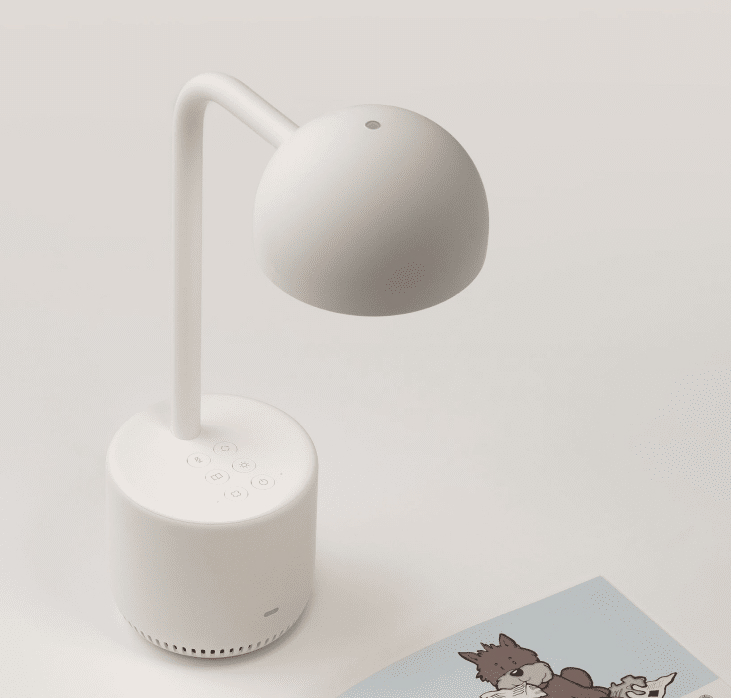
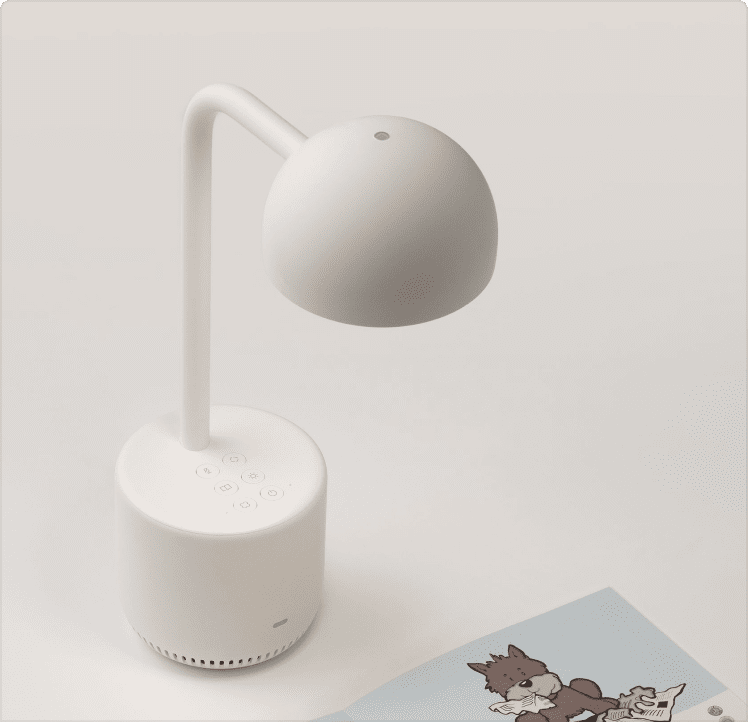
21.08.30

diff --git a/site/css/cardType.css b/site/css/cardType.css
@@ -306,6 +306,7 @@ x {
 .cardType05 .card {
     width: 387px;
     height: 558px;
+    border-radius: 2px;
     margin-right: 20px;
     margin-bottom: 20px;
     padding-bottom: 30px;
